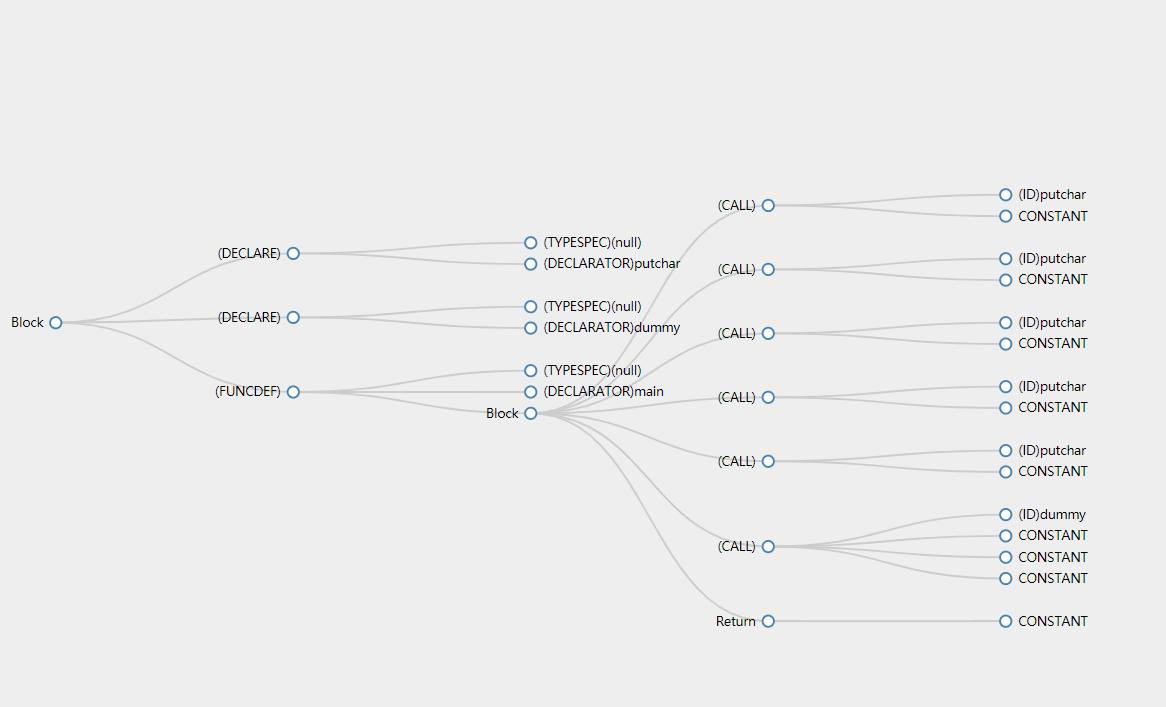
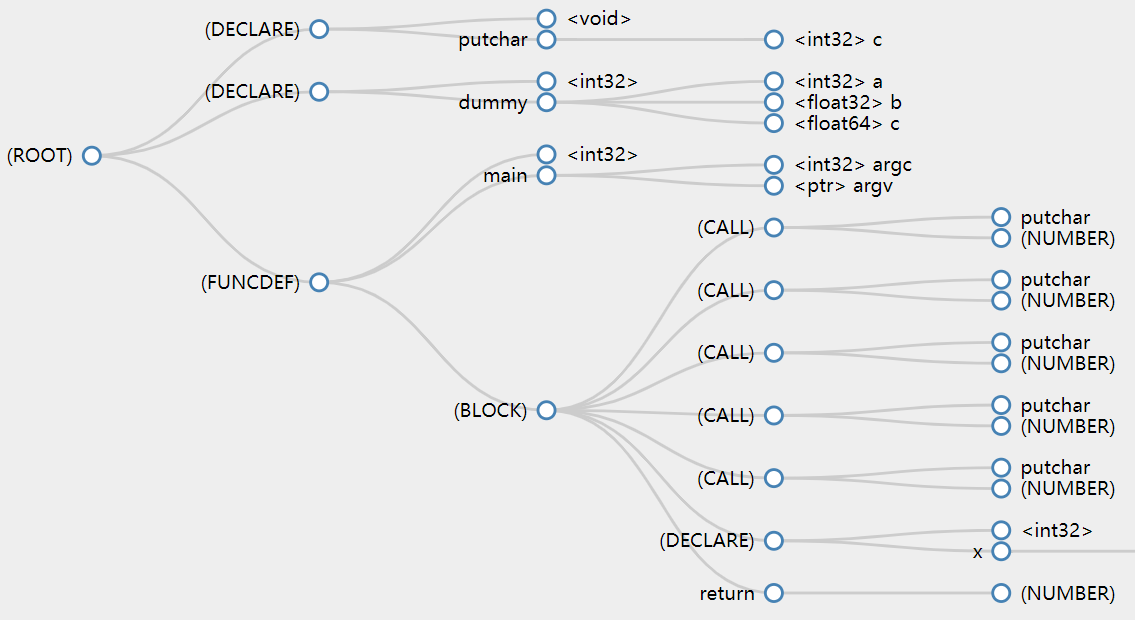
更好的json，fix semantic的函数定义部分，添加测试和文档

diff --git a/Compiler/sematic.c b/Compiler/sematic.c
@@ -589,12 +589,8 @@ LLVMValueRef eval_SwitchCaseStmt(SwitchCaseStmt* ast) {
 // TODO: @wushuhui
 // main要特殊处理吗?
 LLVMValueRef eval_FunctionDefinitionStmt(FunctionDefinitionStmt* ast) {
-	TRY_CAST(DeclareStmt, decl_ast, ast->declarator);
+	TRY_CAST(DeclaratorExpr, decl_ast, ast->declarator);
 	if (decl_ast == NULL) {
-		return NULL;
-	}
-	TRY_CAST(IdentifierExpr, id_ast, decl_ast->identifiers);
-	if (id_ast == NULL) {
 		return NULL;
 	}
 	TRY_CAST(TypeSpecifier, type_ast, ast->specifier);
@@ -606,30 +602,13 @@ LLVMValueRef eval_FunctionDefinitionStmt(FunctionDefinitionStmt* ast) {
 
 	LLVMValueRef func;
 
-	Symbol* func_sym = symtbl_find(ctx->functions, id_ast->name);
+	Symbol* func_sym = symtbl_find(ctx->functions, decl_ast->name);
 	if (func_sym == NULL) {
 		// 没有声明，那么定义和声明在一起
-		// NOTE: 这段代码，Declare那边应该可以复用
-
-		AST* param = id_ast->super.next;
-		TypeInfo* params = NULL;
-		TypeInfo* params_cur = NULL;
-		while (param) {
-			// FIX: 这里好像有点问题，要debug一下
-			TRY_CAST(TypeSpecifier, type_ast, param);
-			TypeInfo* tmp = extract_type(type_ast);
-			if (params == NULL) {
-				params = params_cur = tmp;
-			} else {
-				params_cur->next = tmp;
-				params_cur = tmp;
-			}
-		}
-
 		LLVMTypeRef func_type = eval_TypeSpecifier(type_ast);
-		func = LLVMAddFunction(sem_ctx.module, id_ast->name, func_type);
+		func = LLVMAddFunction(sem_ctx.module, decl_ast->name, func_type);
 
-		func_sym = symbol_create_func(id_ast->name, func, extract_type(type_ast), params, ast->body);
+		func_sym = symbol_create_func(decl_ast->name, func, extract_type(type_ast), decl_ast->type_spec->params, ast->body);
 		symtbl_push(ctx->functions, func_sym);
 	} else if (func_sym->func.body != NULL) {
 		// 已经有定义了
@@ -639,10 +618,15 @@ LLVMValueRef eval_FunctionDefinitionStmt(FunctionDefinitionStmt* ast) {
 		// 如果符号表中已经有了函数，那么用那个符号
 		func = func_sym->value;
 		func_sym->func.body = ast->body;
-
-		// TODO 构建实参
 	}
 
+	// TODO 构建实参
+	TypeSpecifier* cur = decl_ast->type_spec->params;
+	while (cur) {
+		
+		// symtbl_push(ctx->variables, )
+		cur = cur->super.next;
+	}
 
 	LLVMBasicBlockRef entry_bb = LLVMAppendBasicBlock(func, "entry");
 	// 将参数加入

diff --git a/Compiler/json.c b/Compiler/json.c
@@ -403,54 +403,60 @@ void _write_DeclaratorExpr(DeclaratorExpr *expr) {
 
 void _write_TypeSpecifier(TypeSpecifier *expr) {
     // char* name;
-    // char* field_name;
+    START_NAME();
+    APPEND_NAME(<);
     switch (expr->type) {
     case TP_ARRAY:
-        PRINT_NAME(array);
+        APPEND_NAME(array);
         break;
     case TP_ELLIPSIS:
-        PRINT_NAME(ellipsis);
+        APPEND_NAME(ellipsis);
         break;
     case TP_ENUM:
-        PRINT_NAME(enum);
+        APPEND_NAME(enum);
         break;
     case TP_FLOAT128:
-        PRINT_NAME(float128);
+        APPEND_NAME(float128);
         break;
     case TP_FLOAT32:
-        PRINT_NAME(float32);
+        APPEND_NAME(float32);
         break;
     case TP_FLOAT64:
-        PRINT_NAME(float64);
+        APPEND_NAME(float64);
         break;
     case TP_FUNC:
-        PRINT_NAME(func);
+        APPEND_NAME(func);
         break;
     case TP_INT128:
-        PRINT_NAME(int128);
+        APPEND_NAME(int128);
         break;
     case TP_INT16:
-        PRINT_NAME(int16);
+        APPEND_NAME(int16);
         break;
     case TP_INT32:
-        PRINT_NAME(int32);
+        APPEND_NAME(int32);
         break;
     case TP_INT64:
-        PRINT_NAME(int64);
+        APPEND_NAME(int64);
         break;
     case TP_INT8:
-        PRINT_NAME(int8);
+        APPEND_NAME(int8);
         break;
     case TP_PTR:
-        PRINT_NAME(ptr);
+        APPEND_NAME(ptr);
         break;
     case TP_VOID:
-        PRINT_NAME(void);
+        APPEND_NAME(void);
         break;
     default:
-        PRINT_NAME(UNK);
+        APPEND_NAME(UNK);
         break;
     }
+    APPEND_NAME(>);
+    if (expr->field_name) {
+        fprintf(s_fp, " %s", expr->field_name);
+    }
+    COMPLETE_NAME();
 }
 
 

diff --git a/Compiler/test/mini.c b/Compiler/test/mini.c
@@ -1,7 +1,6 @@
 void putchar(int c);
 
-void dummy(int a, float b, double c);
-
+int dummy(int a, float b, double c);
 
 int main(int argc, char** argv)
 {
@@ -10,6 +9,6 @@ int main(int argc, char** argv)
     putchar(108); // 'l'
     putchar(97);  // 'a'
     putchar(10);  // '\n'
-    dummy(8, 0.8f, 0.9);
+    int x = dummy(8, 0.8f, (12 + 4 % 3) * 5.5);
     return 0;
 }

diff --git a/Compiler/ast.c b/Compiler/ast.c
@@ -9,7 +9,7 @@
 #include <llvm-c/Core.h>
 
 #define NEW_AST(type, name) \
-	type* name = (type*) malloc (sizeof(type)); \
+	type* name = (type*) calloc (1, sizeof(type)); \
 	ast_init(&name->super, AST_##type);
 
 #define SUPER(ptr) &(ptr->super)

diff --git a/doc/report.md b/doc/report.md
@@ -177,27 +177,39 @@ struct TypeInfo
 之后在浏览器中访问```localhost:8000```即可查看可视化的抽象语法树。这个抽象语法树是可以交互的，可以实现语法树节点的展开收起。
 d3.js的代码参考了[4].
 
+因为最终展示的是树状结构，而C语言单个文件生成的AST可能并不是一棵树而是一个森林。为了能够正确显示，在生成的json最外层可以套上一个伪根节点，如下所示
+
+```JSON
+{
+    "name": "(ROOT)",
+    "children": [
+        // 编译器生成的json
+        // ...
+    ]
+}
+```
+
 例如如下C语言代码，经过我们的编译器生成AST后，进行可视化，效果如图所示.
 
 ```C
 void putchar(int c);
 
-void dummy(int a, float b, double c);
+int dummy(int a, float b, double c);
 
-
-int main()
+int main(int argc, char** argv)
 {
     putchar(104); // 'h'
     putchar(111); // 'o'
     putchar(108); // 'l'
     putchar(97);  // 'a'
     putchar(10);  // '\n'
-    dummy(8, 0.8f, 0.9);
+    int x = dummy(8, 0.8f, (12 + 4 % 3) * 5.5);
     return 0;
 }
 ```
 
 ![AST Visualization](ast2json.png)
+![AST Visualization1](ast2json1.png)
 
 
 
